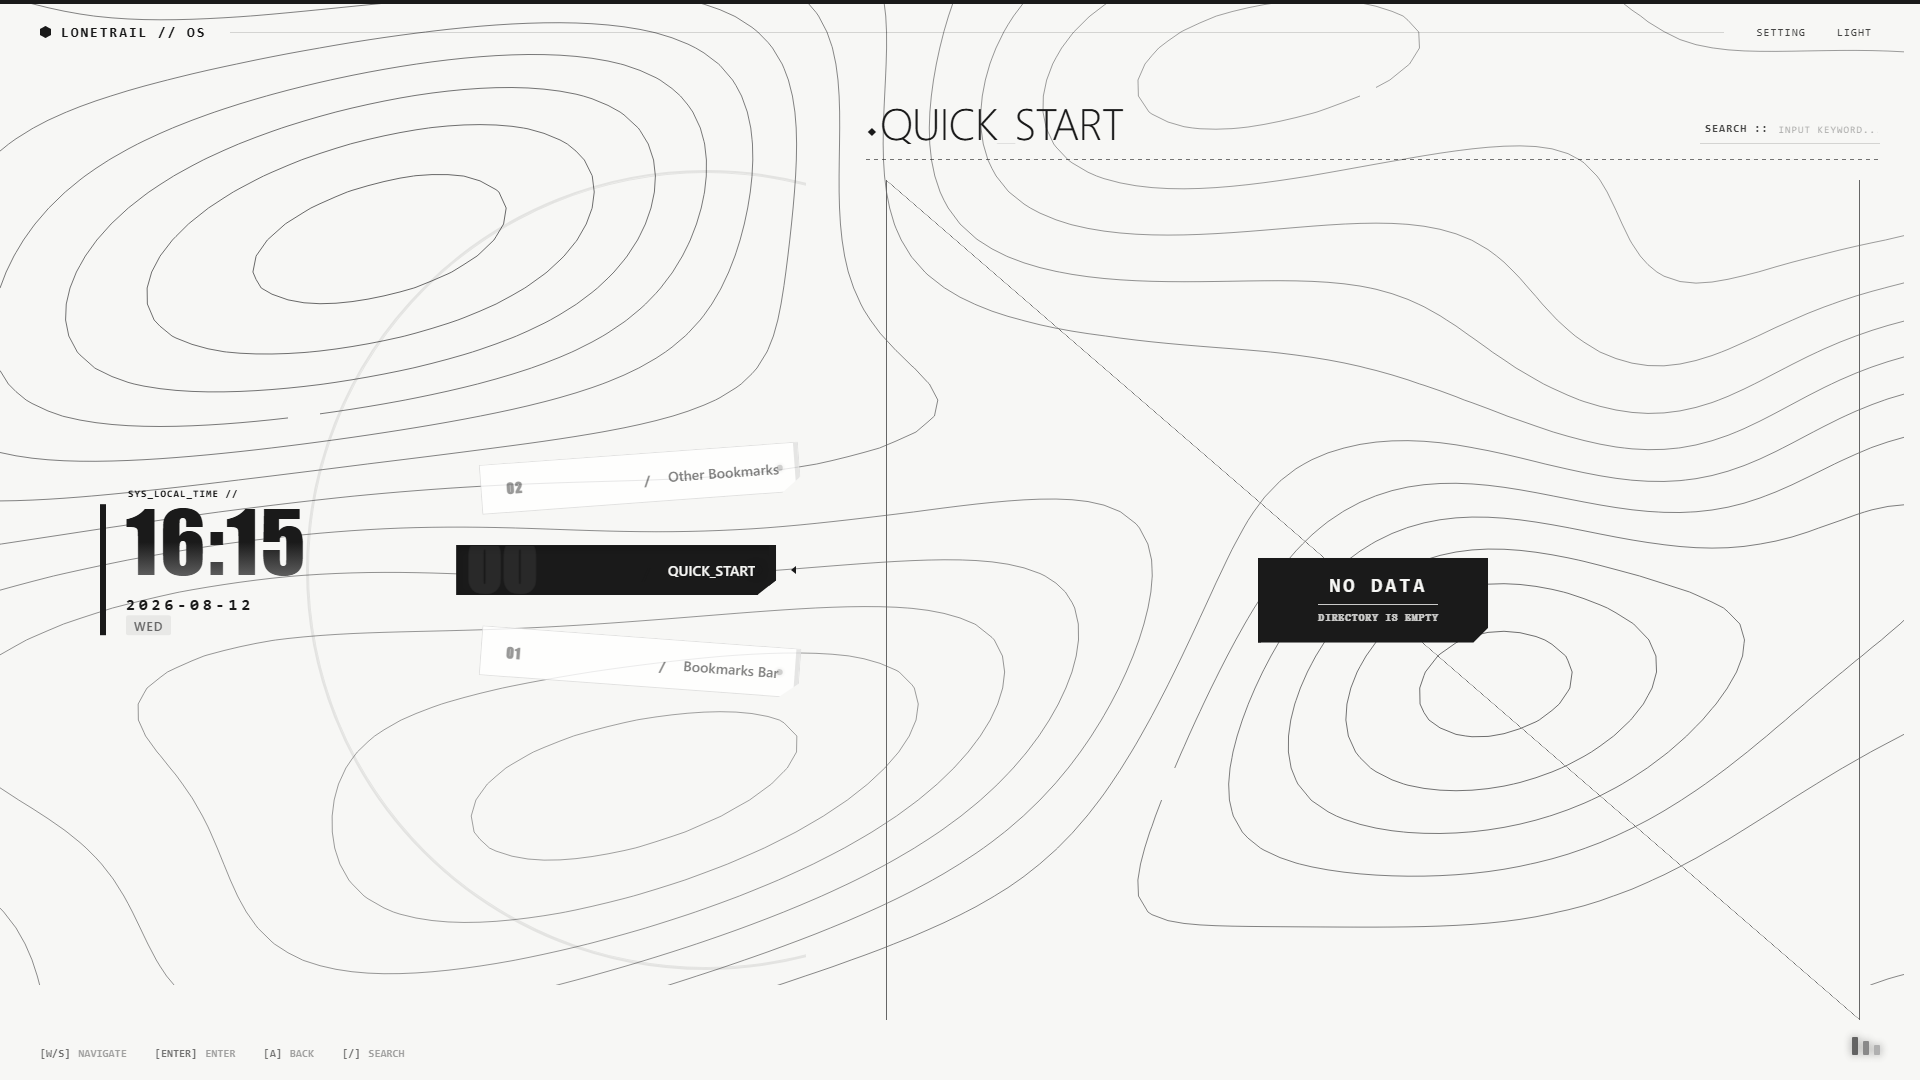
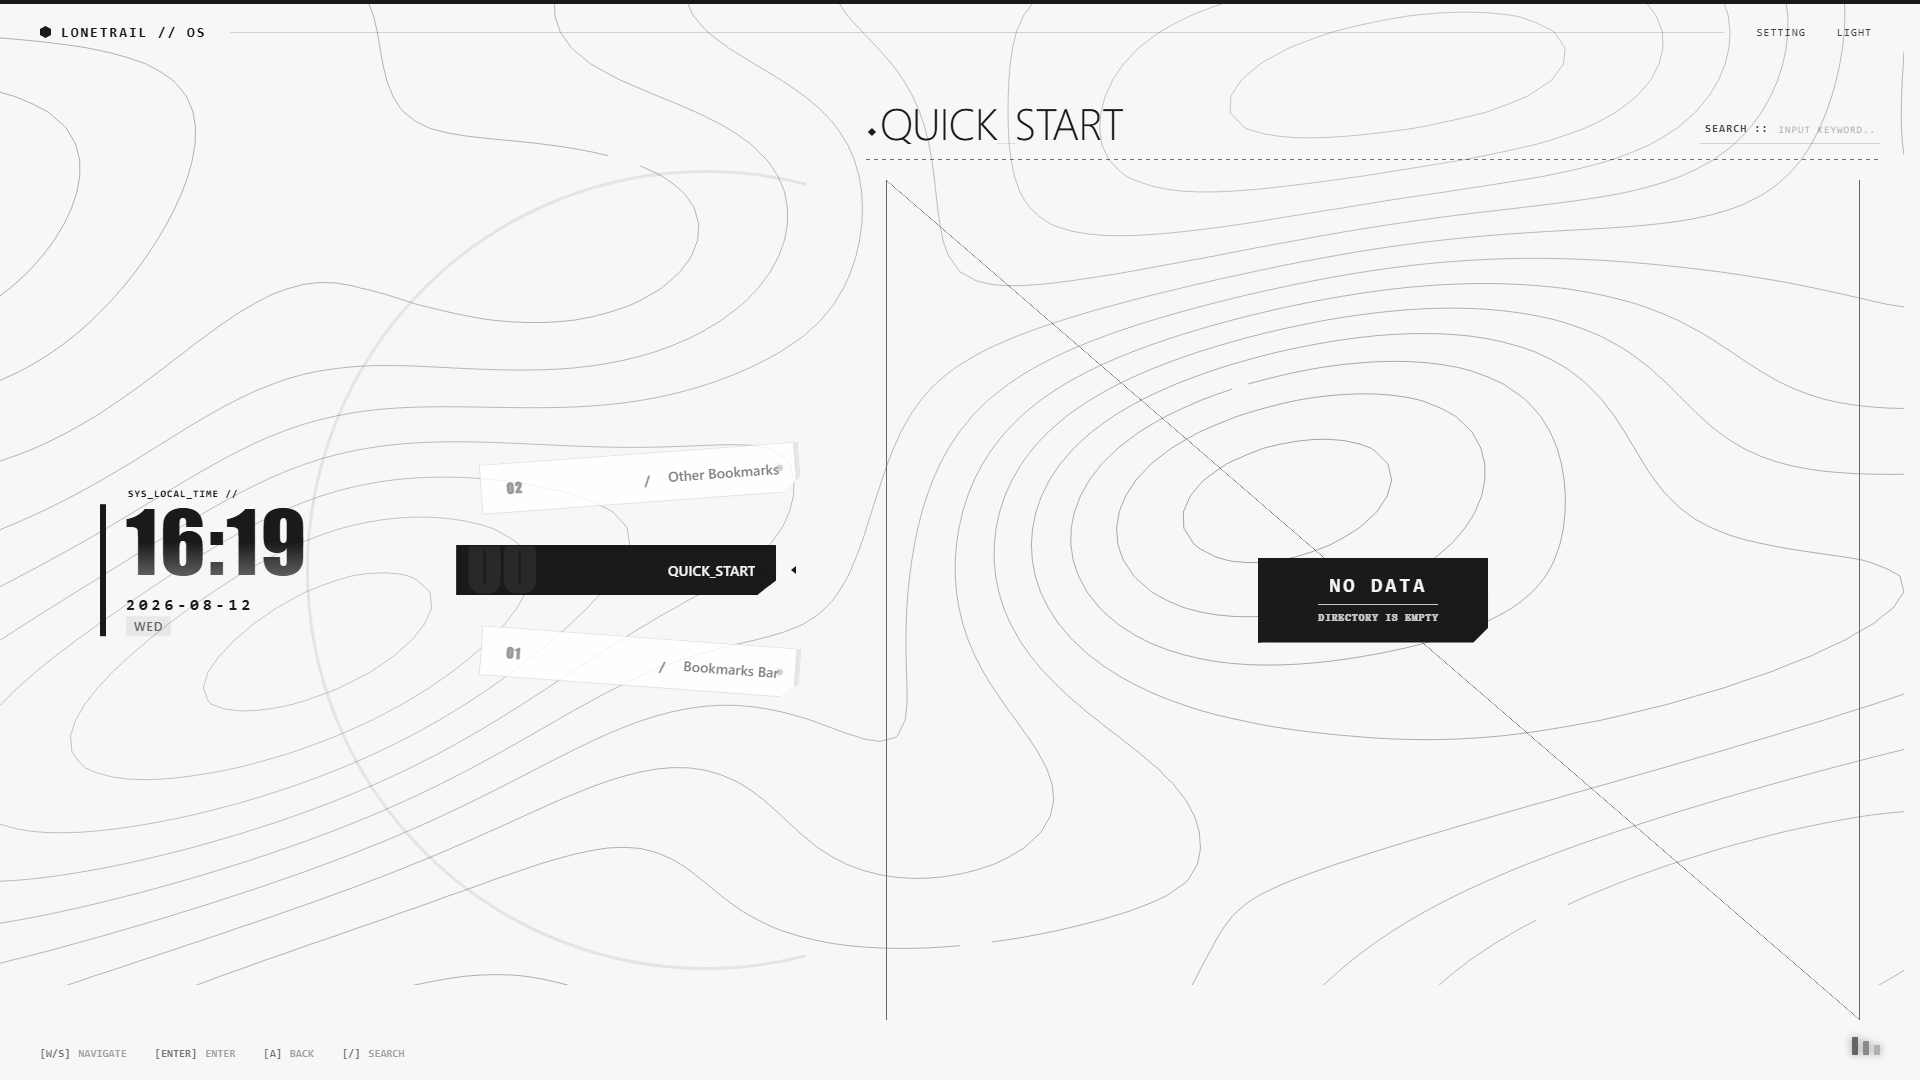
feat(bg): lighten contour lines to a softer gray
- resolveContourColor mixes --text-sub 40% toward white (~#666666 -> ~#9D9D9D), softer contrast on the near-white background
- regenerate light screenshot (line avg color 121 -> 157 gray)

diff --git a/LoneTrail-Tab/js/background.js b/LoneTrail-Tab/js/background.js
@@ -198,7 +198,16 @@ function resolveContourColor() {
     if (hex) {
         let value = hex[1];
         if (value.length === 3) value = value.split('').map((c) => c + c).join('');
-        return `#${value}`;
+        const num = parseInt(value, 16);
+        const r = (num >> 16) & 255;
+        const g = (num >> 8) & 255;
+        const b = num & 255;
+        // 向白色混 40%，让线条更灰更柔和
+        const mix = 0.4;
+        const lr = Math.round(r + (255 - r) * mix);
+        const lg = Math.round(g + (255 - g) * mix);
+        const lb = Math.round(b + (255 - b) * mix);
+        return `rgb(${lr}, ${lg}, ${lb})`;
     }
     const rgba = raw.match(/rgba?\(([^)]+)\)/);
     if (rgba) {
